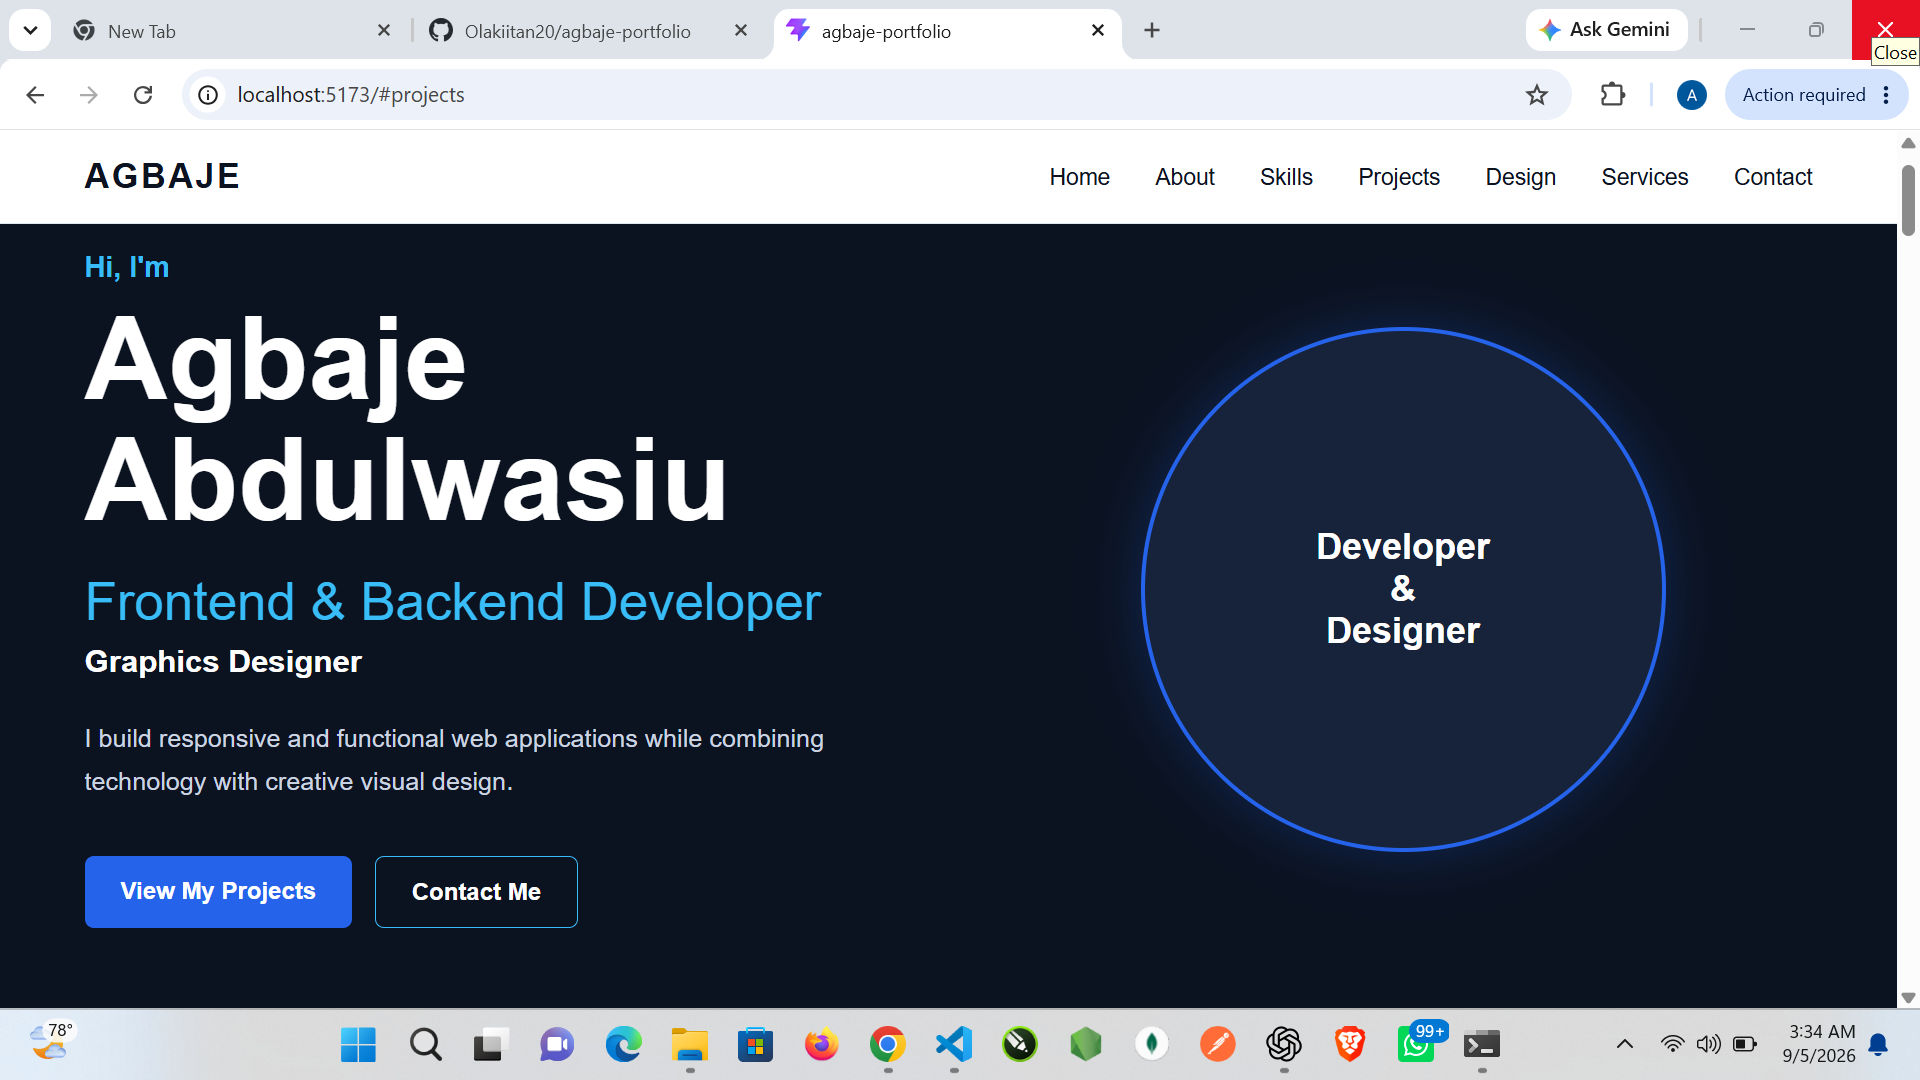
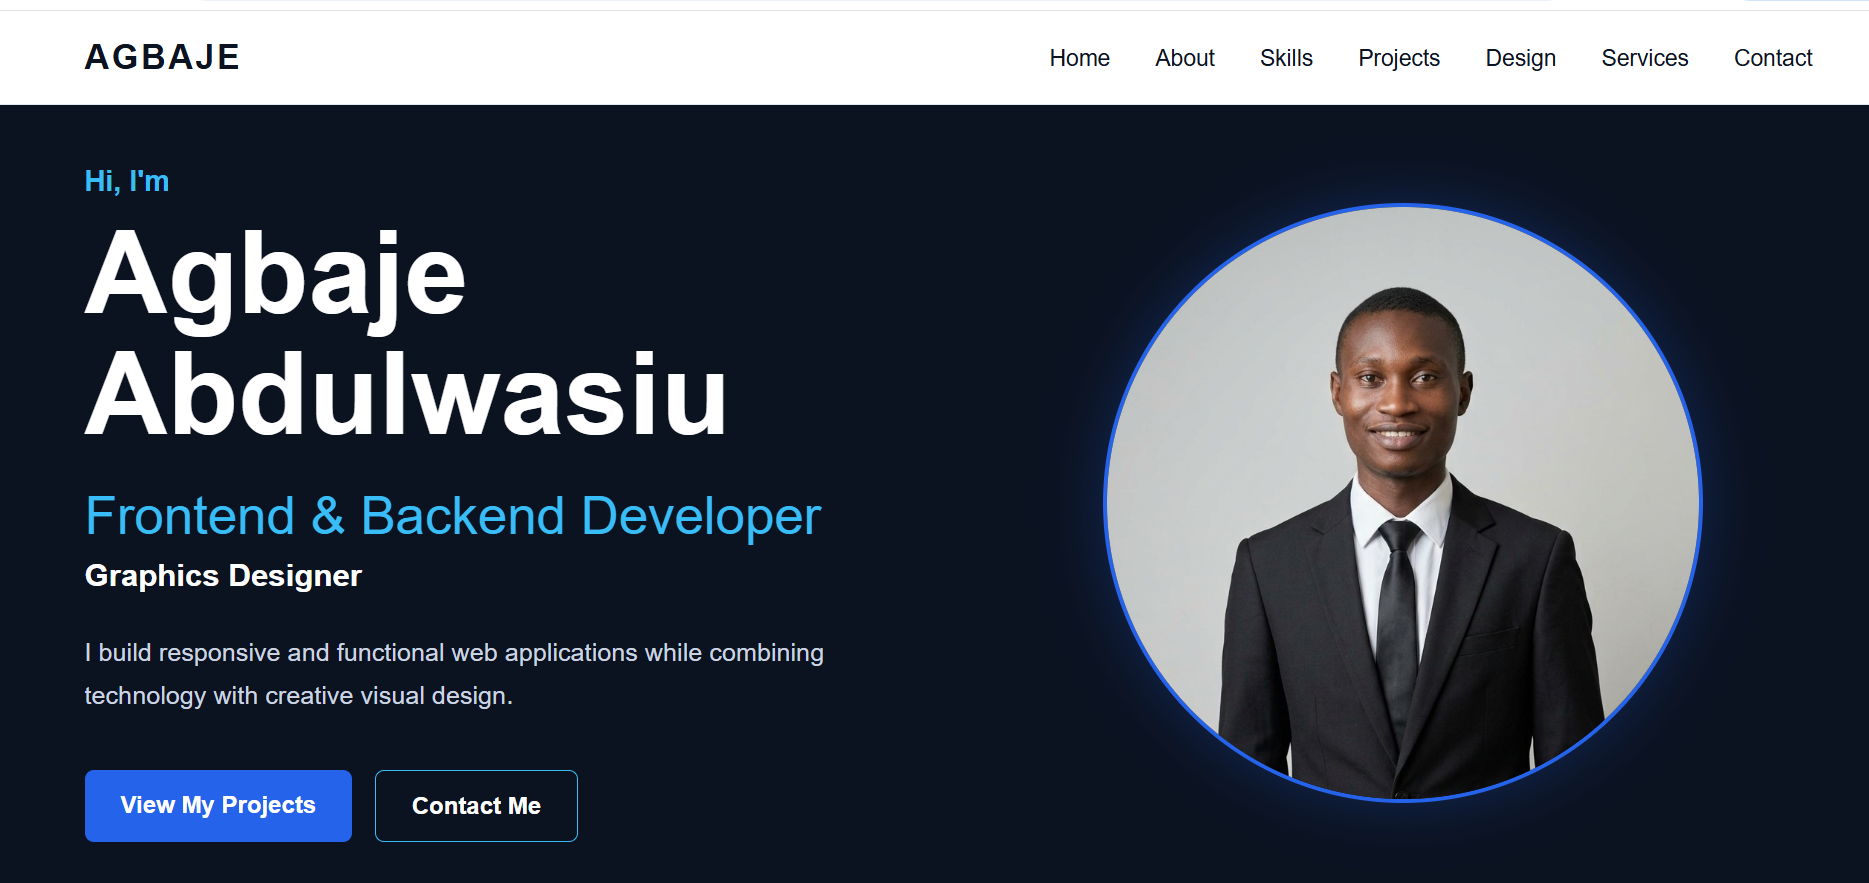
Makes some corrections on about, design, hero, project and skill jsx and skill.css

diff --git a/src/components/Projects.jsx b/src/components/Projects.jsx
@@ -6,9 +6,9 @@ function Projects() {
       title: "Digital Banking System",
       type: "BACKEND DEVELOPMENT",
       description:
-        "A backend banking system that handles customer onboarding, account creation, authentication and core banking operations.",
+        "A highly secure, production ready fintech engine that automates customer onboarding, enforces strict user authethication and manages core ledger operations. The system throughput REST endpoints to process real time financial transaction, balance updates and account creation with absolute data integrity.",
       image: "/projects/digital-banking.png",
-      technologies: ["Node.js", "Express.js", "MongoDB", "REST API"],
+      technologies: ["Node.js", "Express.js", "MongoDB", "REST API", "JSON Web Tokens (JWT)", "Bcrypt", "Postman"],
       github: "https://github.com/Olakiitan20/fintechAssignment",
       liveDemo: "#",
     },
@@ -17,9 +17,9 @@ function Projects() {
       title: "Planets Web Application",
       type: "FRONTEND DEVELOPMENT",
       description:
-        "A responsive web application that provides information about different planets through a clean and user-friendly interface.",
+        "A sleek, responsive web application that delivers detailed insights into our solar system through an intuitive user interface. It translates complex planetary data into highly readable, interactive views with fluid transitions and perfect layouts tailored for any screen size..",
       image: "/projects/planets.png",
-      technologies: ["React", "JavaScript", "CSS", "Responsive Design"],
+      technologies: ["React", "JavaScript", "CSS", "NodeMailer"],
       github: "https://github.com/Olakiitan20/CAPSTONE-PROJECT-14",
       liveDemo: "https://capstone-project-14.netlify.app/",
     },
@@ -28,7 +28,7 @@ function Projects() {
       title: "Personal Portfolio",
       type: "FRONTEND DEVELOPMENT",
       description:
-        "A responsive personal portfolio website created to showcase my software development and graphics design work.",
+        "A responsive personal portfolio website created to showcase my full-stack developer and graphics design work.",
       image: "/projects/personal.png",
       technologies: ["React", "Vite", "JavaScript", "CSS"],
       github: "https://github.com/Olakiitan20/agbaje-portfolio",

diff --git a/src/components/About.jsx b/src/components/About.jsx
@@ -26,21 +26,24 @@ function About() {
           </h2>
 
           <p>
-            I'm a software developer passionate about building
-            responsive, functional and user-friendly web applications.
+            I'm a <b>Full-Stack Developer</b> dedicated to building seamless,
+            responsive and highly functional web applications. Because I work 
+            across both frontend and backend systems, I build software with a
+            deep understanding of how efficient databases and smooth user interface connect.
           </p>
 
           <p>
-            My interests cover both frontend and backend development,
-            allowing me to understand how different parts of a web
-            application work together.
+            What sets me apart is my background in <b>Graphic Design</b>. I don't just
+            write clean, scalable code, I design with the end user in mind, transforming
+            complex ideas into intuitive, visually striking digital experiences.
           </p>
 
           <p>
-            Beyond development, I also have an interest in graphics
-            design, where I enjoy turning ideas into creative visual
-            experiences.
+            As a collaborative and fast learning developer, I am looking to connect with 
+            engineering teams, mentors and developers to contribute to impactful projects 
+            and grow within a fast paced environment.
           </p>
+
 
           {/* About Buttons */}
           <div className="about-buttons">

diff --git a/src/components/Skills.jsx b/src/components/Skills.jsx
@@ -32,7 +32,6 @@ function Skills() {
               <span>CSS</span>
               <span>JavaScript</span>
               <span>React</span>
-              <span>Responsive Design</span>
             </div>
           </div>
 
@@ -46,23 +45,33 @@ function Skills() {
               <span>REST APIs</span>
               <span>MongoDB</span>
               <span>Mongoose</span>
-              <span>Authentication</span>
+              <span>JSON Web Token</span>
             </div>
           </div>
 
-          {/* Design & Tools */}
+          {/* Design */}
           <div className="skill-card">
-            <h3>Design & Tools</h3>
+            <h3>Design</h3>
 
             <div className="skill-list">
-              <span>Graphics Design</span>
+              <span>Brand Identity</span>
               <span>Logo Design</span>
               <span>Flyer Design</span>
-              <span>Git & GitHub</span>
+              <span>Social Media Design</span>
+              <span>Print Design</span>
+            </div>
+          </div>
+
+           {/* Tools */}
+          <div className="skill-card">
+            <h3>Tools</h3>
+
+            <div className="skill-list">
+              <span>Git/Github</span>
               <span>Postman</span>
               <span>VS Code</span>
               <span>Photoshop</span>
-              <span>Coreldraw</span>
+              <span>CorelDraw</span>
             </div>
           </div>
 

diff --git a/src/components/Hero.jsx b/src/components/Hero.jsx
@@ -12,16 +12,17 @@ function Hero() {
           </h1>
 
           <h2>
-            Frontend & Backend Developer
+            A Full-Stack Developer
           </h2>
 
           <p className="hero-role">
-            Graphics Designer
+            & Graphics Designer
           </p>
 
           <p className="hero-description">
-            I build responsive and functional web applications
-            while combining technology with creative visual design.
+            I build robust, responsive and functional web applications from database to interface. 
+            My background in graphic design allows me to bridge the gap between powerful backend logic and beautiful
+            user centered frontends
           </p>
 
           <div className="hero-buttons">

diff --git a/src/components/Design.jsx b/src/components/Design.jsx
@@ -52,8 +52,8 @@ function Design() {
           </h2>
 
           <p>
-            I also enjoy creating visual designs that communicate
-            ideas, build brands and connect with audiences.
+            I blend aesthetics with strategy to create high impact visual designs that build 
+            memorable brands and connect with audiences.
           </p>
         </div>
 

diff --git a/src/components/Skills.css b/src/components/Skills.css
@@ -34,7 +34,7 @@
 
 .skills-grid {
   display: grid;
-  grid-template-columns: repeat(3, 1fr);
+  grid-template-columns: repeat(4, 1fr);
   gap: 25px;
 }
 
